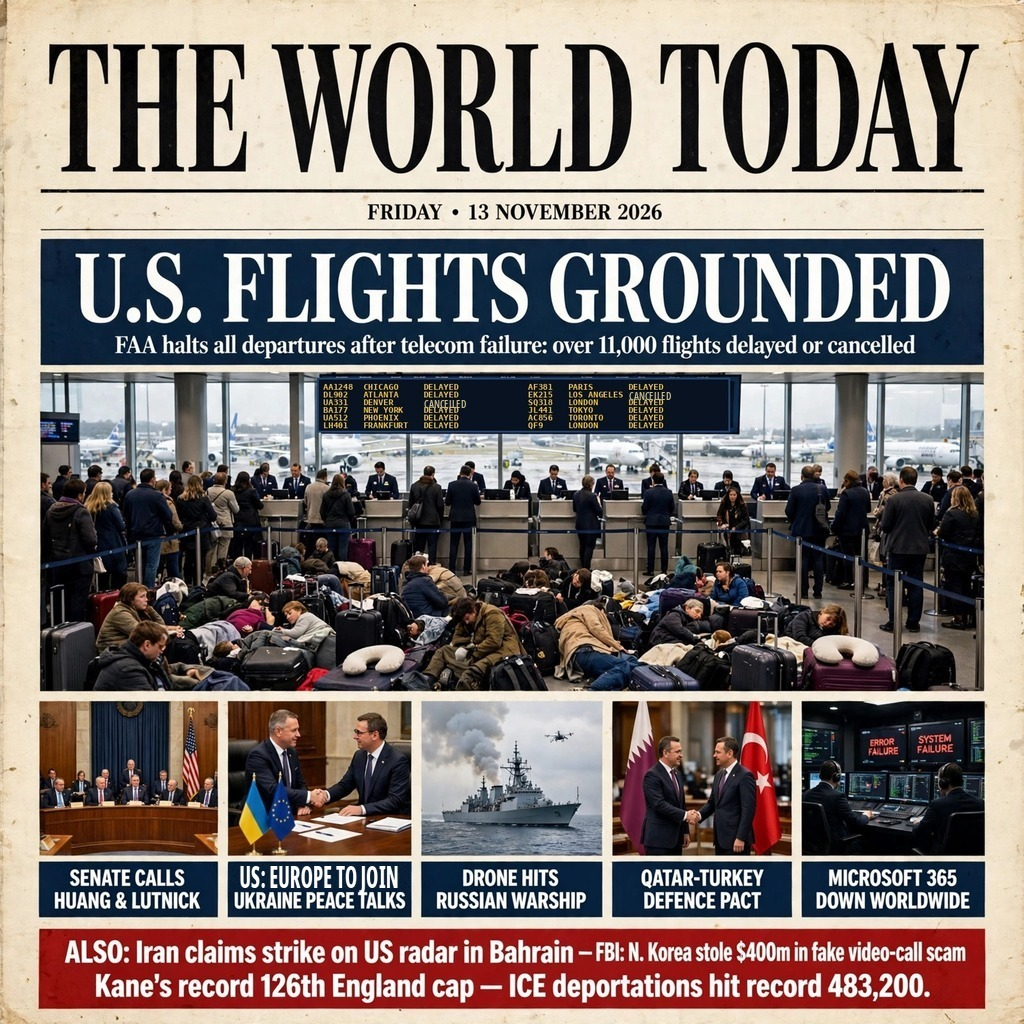
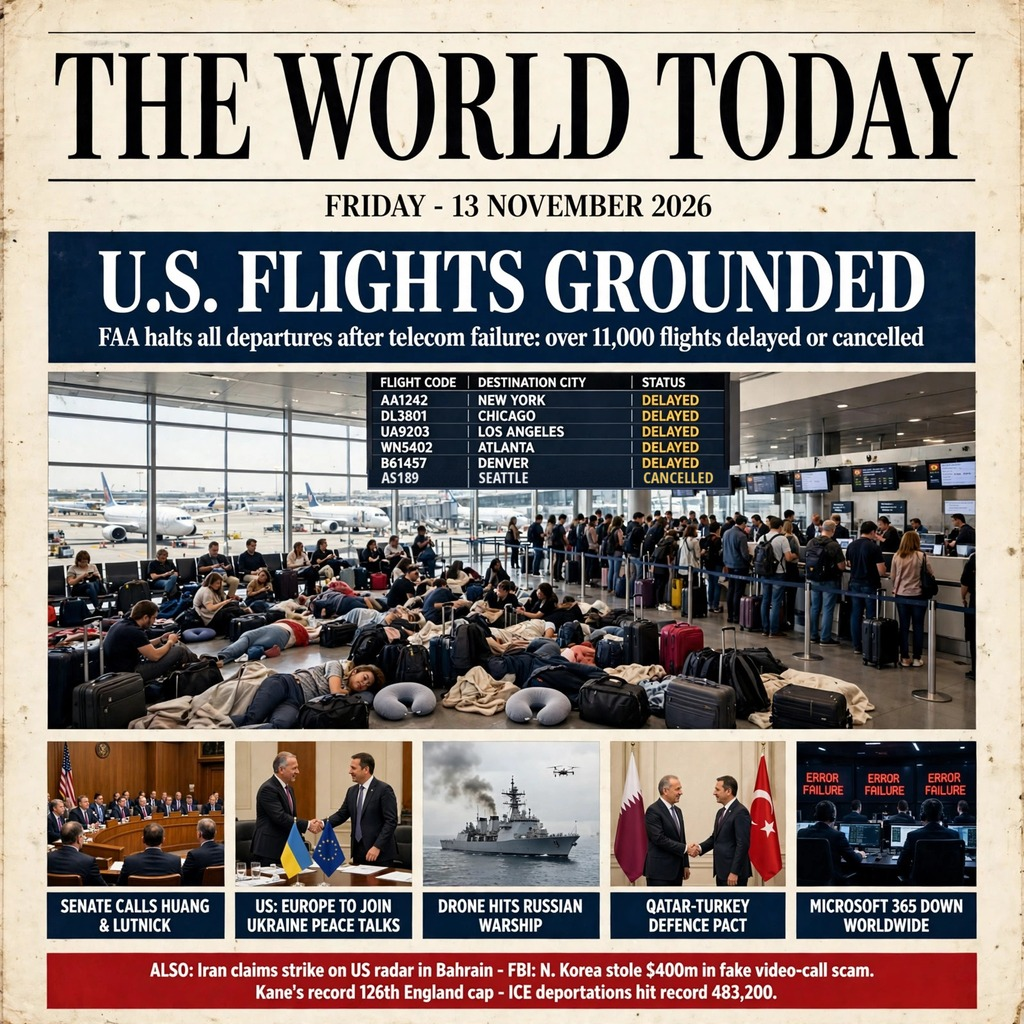
news-image-01: v8 front page — fresh generation, Senate in profile, coherent board with CANCELLED row

diff --git a/main.py b/main.py
@@ -12,13 +12,13 @@ of Finland, the Qatar-Turkey defence pact and the worldwide Microsoft
 365 outage, plus a footer strip with Iran's claimed strike on a US
 radar site in Bahrain, the FBI's $400m North Korea crypto-scam
 warning, Kane's England caps record and the record US deportation
-figure. The departures board in the hero photo was repainted with
-twelve distinct flights — ten delayed and two cancelled, matching the
-deck's "delayed or cancelled" — with destinations matched to the flights'
-real routes; the Europe caption's first line was repainted to read
-"US: EUROPE TO JOIN" so the claim is attributed to the US envoys
-rather than stated as settled; the hero deck fits on one line and
-the footer on two.
+figure. The departures board in the hero photo is a single table with
+a header row and six US-domestic flights — five delayed and one
+cancelled (AS189 to Seattle), matching the deck's "delayed or
+cancelled" — and the Senate panel is seen from the side, in profile;
+the Europe caption's first line reads "US: EUROPE TO JOIN" so the
+claim is attributed to the US envoys rather than stated as settled;
+the hero deck fits on one line and the footer on two.
 """
 
 import os

diff --git a/README.md b/README.md
@@ -36,30 +36,27 @@ A newspaper-front-page image summing up the world's news of Friday
 
 ## How it was made
 
-The front page was generated as one image, then details were
+The front page was generated as one image, then one detail was
 corrected for faithfulness by surgical repainting, with nothing else
-altered. First, the generated departures board repeated the same few
-garbled rows, so the board was repainted with twelve distinct flights
-in a matching gold mono face, with destinations corrected to
-the flights' real routes (BA177 to New York, EK215 to Los Angeles,
-SQ318 and QF9 to London). Second, the Europe panel's caption read
-"EUROPE TO JOIN UKRAINE PEACE TALKS" as settled fact, but Moscow
-neither endorsed nor rejected a European seat on 13 November, so the
-caption's first line was repainted to read "US: EUROPE TO JOIN",
-attributing the claim to the US envoys who announced it, in a
-matching condensed bold face. This version fixes the one point
-where the previous version was weakest: the departures board showed
-all twelve flights as DELAYED while the deck says "delayed or
-cancelled", so two rows (Denver and Los Angeles) were repainted to
-CANCELLED in a matching condensed face, with no visible seam.
-Earlier versions also fixed three points: the hero photo now shows the
-disruption itself — stranded passengers sitting on the terminal floor
-among their luggage, instead of a calm check-in queue; the Senate
-panel says "calls" rather than "summons" (the committee requested
-voluntary testimony, threatening subpoenas only if they decline);
-and the Microsoft 365 panel shows visible ERROR / SYSTEM FAILURE
-screens instead of a near-black control room. The hero sub-headline
-still fits on one line, nobody in the Europe panel looks at the
+altered. The generated departures board showed five DELAYED rows and
+a sixth row (AS189 to Seattle) detached below the board's frame,
+misaligned and with no status, while the deck says "delayed or
+cancelled", so the board was extended down to absorb that row as a
+proper sixth row — AS189 and Seattle repainted on the table's grid in
+a matching condensed bold face — with its status reading CANCELLED,
+leaving five DELAYED and one CANCELLED. The board is a single
+coherent table with a header row (FLIGHT CODE / DESTINATION CITY /
+STATUS) and all-US-domestic routes, and the Senate panel is seen from
+the side, in profile, rather than facing the viewer. Earlier versions
+fixed the same class of points on a previous base: the hero photo
+shows stranded passengers camped on the terminal floor among their
+luggage; the Senate panel says "calls" rather than "summons" (the
+committee requested voluntary testimony, threatening subpoenas only
+if they decline); the Europe panel's caption reads "US: EUROPE TO
+JOIN", attributing the claim to the US envoys who announced it,
+since Moscow had not confirmed the European seat; and the Microsoft
+365 panel shows visible ERROR / SYSTEM FAILURE screens. The hero
+sub-headline still fits on one line, nobody in the hero looks at the
 camera, and the footer is two lines in larger type.
 
 ## How it runs
@@ -72,4 +69,4 @@ mkdir -p out && MAKEFUN_OUTPUT_DIR=out python3 main.py
 ```
 
 The output is a 1024x1024 JPEG (named `entry.png`, as the rules allow),
-410,818 bytes (under the 1 MiB limit), and byte-identical on every run.
+392,148 bytes (under the 1 MiB limit), and byte-identical on every run.
